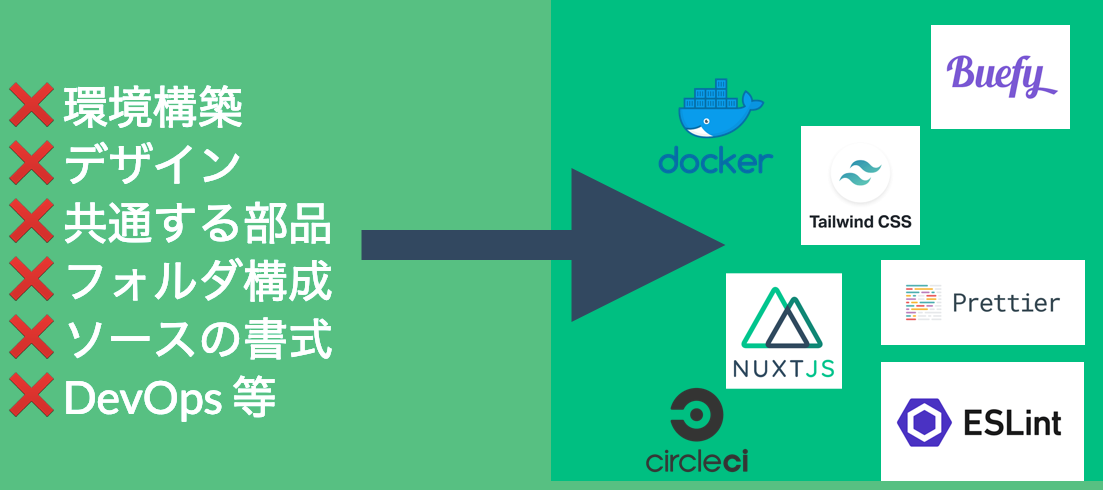
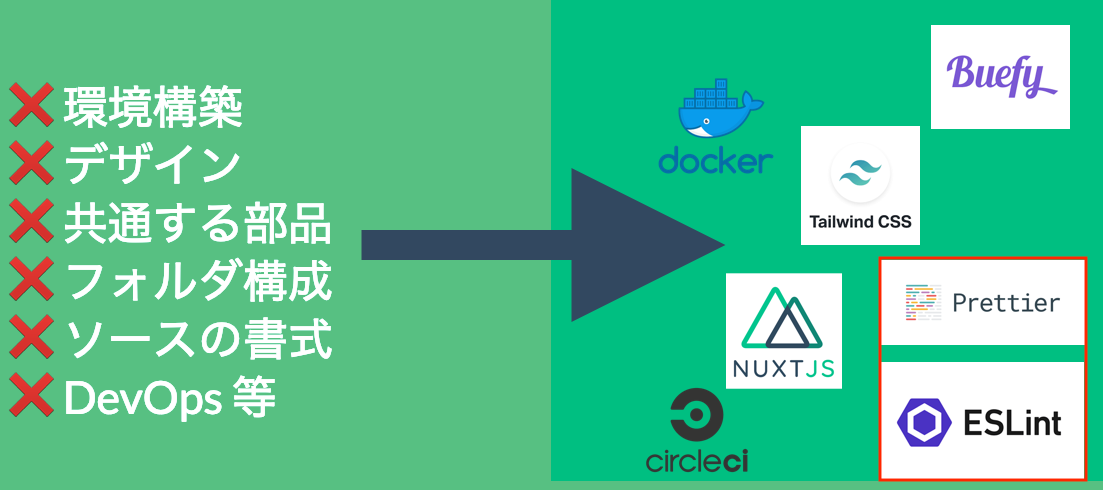
test

Changed region(s): [[0.7706, 0.5204, 0.9864, 1.0]]

diff --git a/PITCHME.md b/PITCHME.md
@@ -90,7 +90,7 @@
 @snap[north span-100 headline]
 #### "Done is better than perfect"とはいうけど
 @snapend
-## Done is MURI !
+# Done is MURI !
 
 ---?color=#00BF81
 @title[だから]
@@ -102,17 +102,15 @@
 @snapend
 
 ---?color=#00BF81
-@title[例えばこんな勉強会]
+@title[神]
 @snap[north span-100 headline]
-#### 考えずに生きていける個人開発にしよう
+#### 神託「Prettierとlintを疑ってはならない」
 @snapend
 @snap[west span-100]
-- ng-japan 2019 <br>
-- We Are JavaScripters! @30th<br>
-- Nuxt+FirebaseでWEBサービスを作るハンズオン <br>
-- 技術書典6 もくもく執筆レビュー会 <br>
-- 基礎から学ぶVue.js 輪読会&もくもく勉強会 <br>
-- NuxtMeetUp　等
+```
+$ yarn add --dev eslint eslint-config-prettier eslint-plugin-prettier prettier prettier-eslint-cli
+```
+@[1][eslintのpluginは適宜追加]
 @snapend
 
 ---?color=#00BF81
